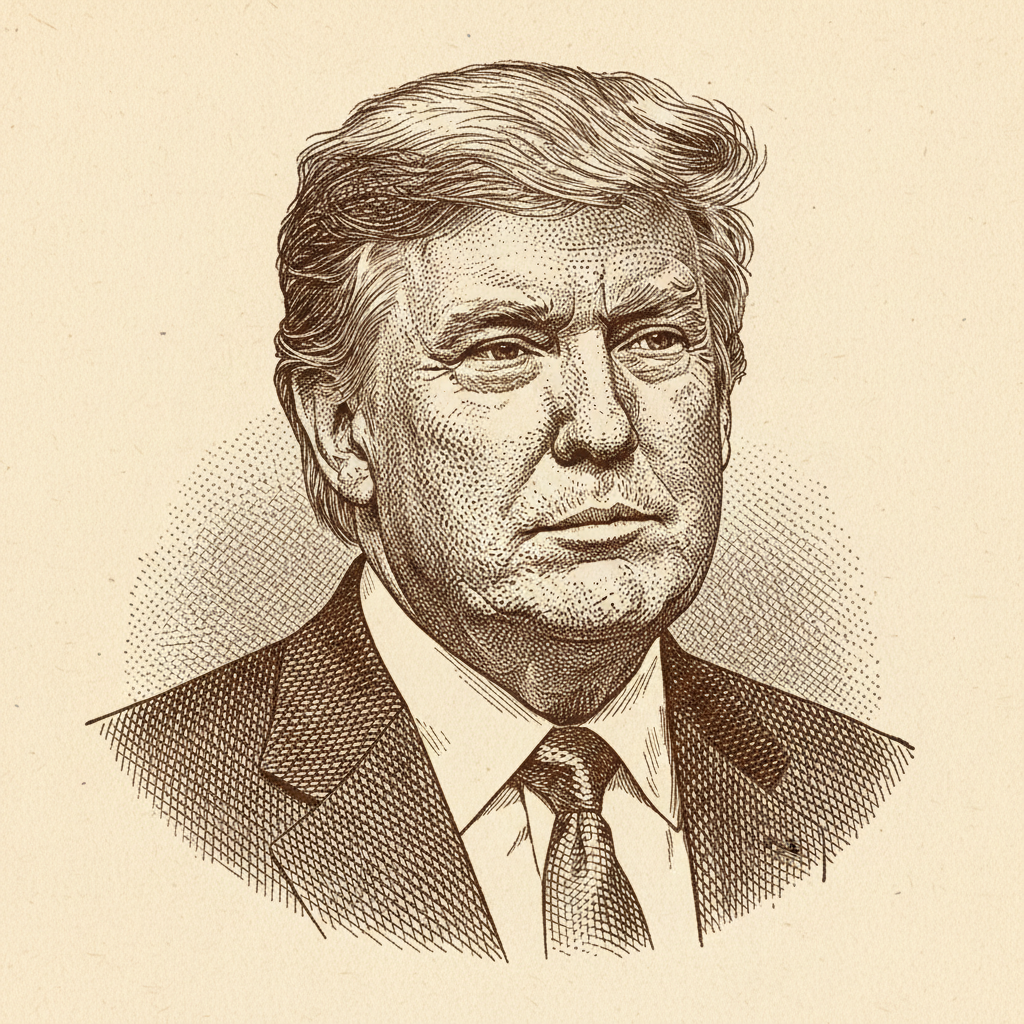
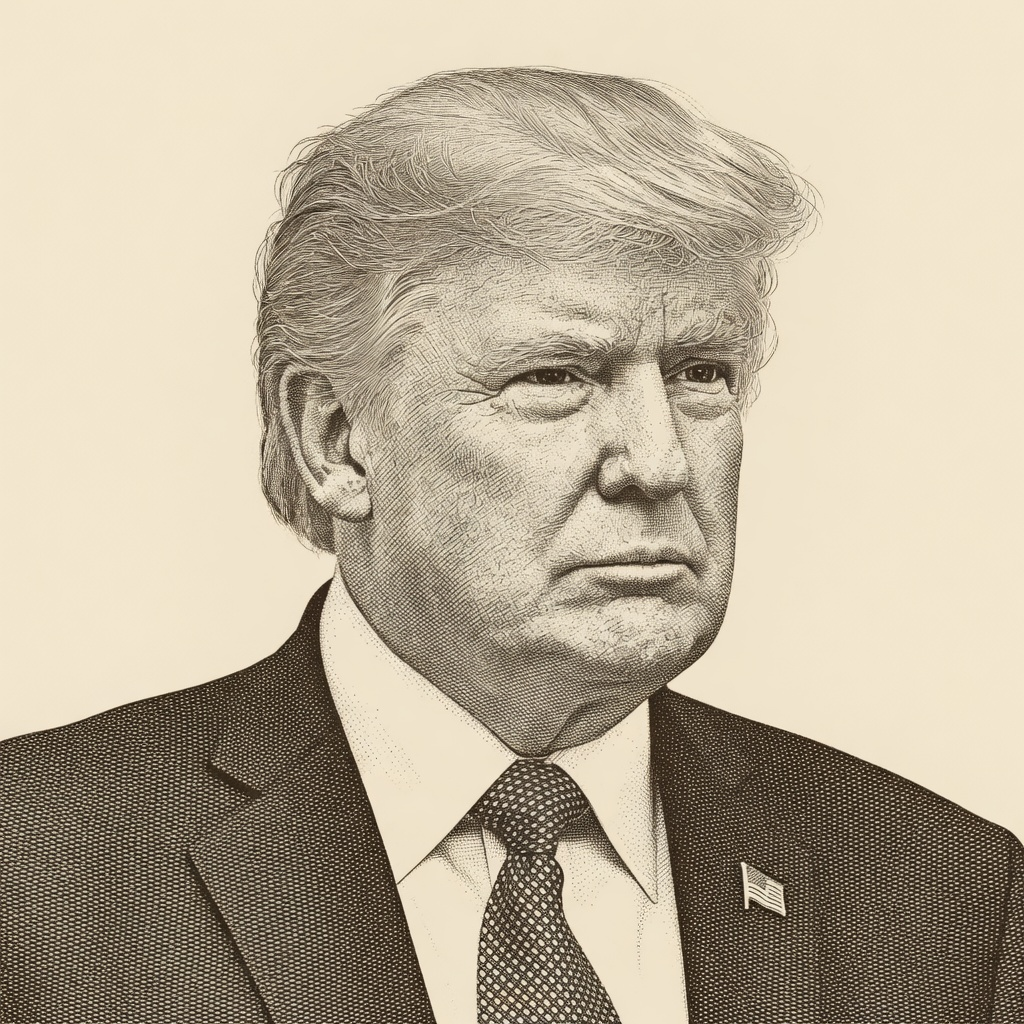
frontend-v2: Step 2 — wire etched portraits with monogram fallback
adaptFigure now derives imageUrl=/portraits/<id>.png. FigurePortrait gains an
onError handler that falls back to the dignified monogram plate when a portrait
404s, and renders the image greyscale per the archival brief. Roster cards, the
chat header, and the empty-state plate now pass the portrait through. Ship the
commissioned portrait PNGs in public/portraits/. +1 adapter test (15 FE tests).

diff --git a/frontend/src/screens/ChatScreen.jsx b/frontend/src/screens/ChatScreen.jsx
@@ -10,7 +10,7 @@ function ChatHeader({ figure, onBack }) {
   return (
     <div style={{ display: 'flex', alignItems: 'center', gap: 'var(--space-4)', padding: 'var(--space-4) var(--space-6)', borderBottom: '1px solid var(--border-line)', background: 'var(--surface-page)' }}>
       <IconButton label="Back to roster" variant="ghost" onClick={onBack}>←</IconButton>
-      <FigurePortrait name={figure.name} category={figure.category} accentColor={figure.accentColor} shape="round" size={38} grain={false} />
+      <FigurePortrait name={figure.name} src={figure.imageUrl} category={figure.category} accentColor={figure.accentColor} shape="round" size={38} grain={false} />
       <div style={{ flex: 1, minWidth: 0 }}>
         <div style={{ display: 'flex', alignItems: 'center', gap: '10px' }}>
           <span style={{ font: 'var(--fw-regular) var(--text-xl)/1 var(--font-display)', color: 'var(--text-strong)' }}>{figure.name}</span>
@@ -31,7 +31,7 @@ function EmptyState({ figure, onAsk }) {
   ]
   return (
     <div style={{ maxWidth: 'var(--width-chat)', margin: '0 auto', padding: 'var(--space-10) var(--space-6)', textAlign: 'center' }}>
-      <FigurePortrait name={figure.name} category={figure.category} accentColor={figure.accentColor} size={92} style={{ margin: '0 auto' }} />
+      <FigurePortrait name={figure.name} src={figure.imageUrl} category={figure.category} accentColor={figure.accentColor} size={92} style={{ margin: '0 auto' }} />
       <h2 style={{ margin: 'var(--space-5) 0 0', font: 'var(--fw-regular) var(--text-3xl)/1.1 var(--font-display)', color: 'var(--text-strong)' }}>{figure.name}</h2>
       <p style={{ margin: '12px auto 0', maxWidth: '46ch', font: 'var(--fw-regular) var(--text-md)/1.6 var(--font-serif)', color: 'var(--text-muted)', textWrap: 'pretty' }}>{figure.description}</p>
       <div style={{ display: 'flex', alignItems: 'center', gap: '12px', margin: 'var(--space-8) 0 var(--space-4)' }}>

diff --git a/frontend/src/components/ds/figures/FigurePortrait.jsx b/frontend/src/components/ds/figures/FigurePortrait.jsx
@@ -17,6 +17,11 @@ export function FigurePortrait({
   style,
   ...rest
 }) {
+  // When the image 404s (portrait not yet commissioned), fall back to the monogram plate.
+  const [failed, setFailed] = React.useState(false);
+  React.useEffect(() => { setFailed(false); }, [src]);
+  const showImage = !!src && !failed;
+
   const initials = name
     .split(/\s+/)
     .filter(Boolean)
@@ -48,7 +53,7 @@ export function FigurePortrait({
         height: h,
         borderRadius: radius,
         overflow: "hidden",
-        background: src ? "var(--paper-2)" : plate,
+        background: showImage ? "var(--paper-2)" : plate,
         border: "1px solid var(--border-line)",
         boxShadow: "var(--shadow-inset)",
         flex: "none",
@@ -56,11 +61,12 @@ export function FigurePortrait({
       }}
       {...rest}
     >
-      {src ? (
+      {showImage ? (
         <img
           src={src}
           alt={name}
-          style={{ width: "100%", height: "100%", objectFit: "cover", display: "block", filter: "saturate(0.92) contrast(1.02)" }}
+          onError={() => setFailed(true)}
+          style={{ width: "100%", height: "100%", objectFit: "cover", display: "block", filter: "grayscale(1) contrast(1.03) saturate(0.9)" }}
         />
       ) : (
         <div

diff --git a/frontend/src/screens/RosterScreen.jsx b/frontend/src/screens/RosterScreen.jsx
@@ -45,8 +45,8 @@ export function RosterScreen({ figures, loading, onOpenFigure }) {
           <RosterSkeleton />
         ) : (
           <div style={{ display: 'grid', gridTemplateColumns: 'repeat(auto-fill, minmax(300px, 1fr))', gap: 'var(--space-5)' }}>
-            {shown.map(({ chunkCount, fields, openers, ...card }) => (
-              <FigureCard key={card.id} {...card} onClick={() => card.status !== 'coming-soon' && onOpenFigure(shown.find((f) => f.id === card.id))} />
+            {shown.map(({ chunkCount, fields, openers, imageUrl, ...card }) => (
+              <FigureCard key={card.id} {...card} src={imageUrl} onClick={() => card.status !== 'coming-soon' && onOpenFigure(shown.find((f) => f.id === card.id))} />
             ))}
           </div>
         )}

diff --git a/frontend/src/lib/adapters.js b/frontend/src/lib/adapters.js
@@ -25,6 +25,9 @@ export function adaptFigure(f) {
     fields: Array.isArray(m.fields) ? m.fields : [],
     status: f.chunk_count > 0 ? 'published' : 'coming-soon',
     chunkCount: f.chunk_count,
+    // Etched portrait served from /public/portraits/<id>.png. Missing files 404 and
+    // FigurePortrait falls back to the monogram plate (onError), so this is always safe.
+    imageUrl: `/portraits/${f.id}.png`,
     // static opener prompts per figure could come from the API later; empty for now.
     openers: Array.isArray(m.openers) ? m.openers : [],
   }

diff --git a/frontend/src/lib/adapters.test.js b/frontend/src/lib/adapters.test.js
@@ -26,6 +26,11 @@ describe('adaptFigure', () => {
     })
     expect(f.meta).toBe('Science & Education')
   })
+
+  it('derives a portrait imageUrl from the figure id', () => {
+    const f = adaptFigure({ id: 'aurelius', name: 'Marcus Aurelius', type: 'historical', description: '', metadata: {}, chunk_count: 5 })
+    expect(f.imageUrl).toBe('/portraits/aurelius.png')
+  })
 })
 
 describe('formatTimestamp', () => {
